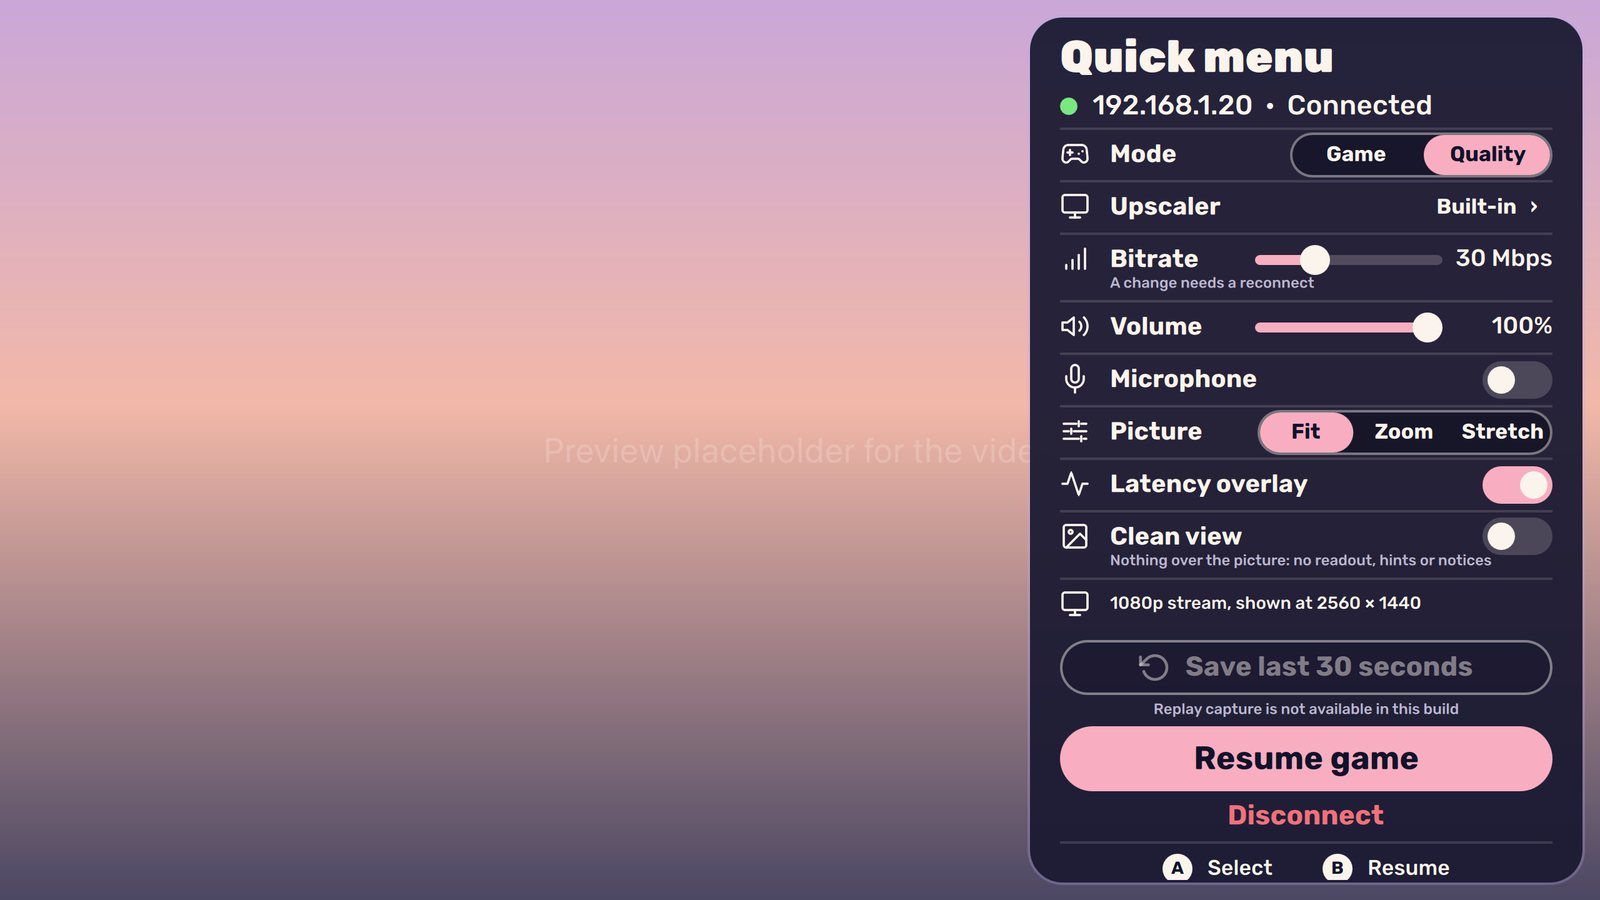
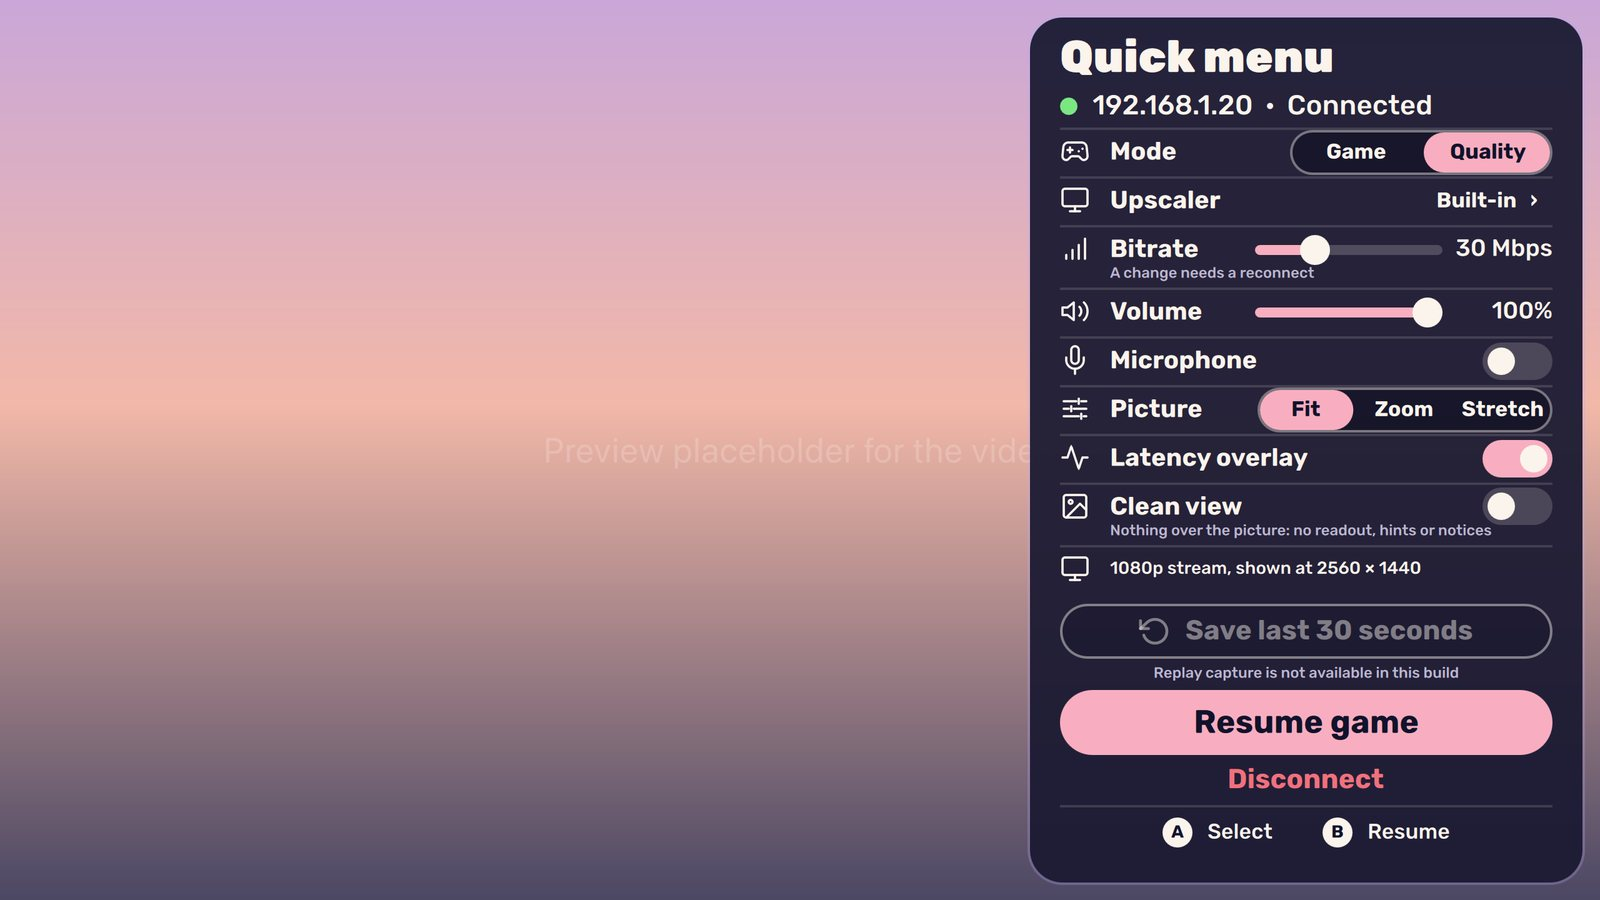
Fit the quick menu at 720p

Changed region(s): [[0.6562, 0.1244, 0.9688, 0.9956]]

diff --git a/gui/src/qml/vice/overlay/QuickMenu.qml b/gui/src/qml/vice/overlay/QuickMenu.qml
@@ -85,12 +85,12 @@ FocusScope {
         property string caption
         default property alias control: rowSlot.data
         width: column.width
-        height: Theme.px(caption ? 54 : 42)
+        height: Theme.px(caption ? 50 : 39)
         Rectangle { width: parent.width; height: Theme.border; color: Theme.alpha(Theme.text, 0.14) }
-        V.Icon { id: rowIcon; y: Theme.px(9); size: Theme.px(24); weight: 1.8 }
-        V.Label { id: rowLabel; x: Theme.px(40); y: Theme.px(9); font.pixelSize: Theme.px(20); font.weight: Theme.weightButton }
-        V.Label { x: Theme.px(40); y: Theme.px(33); visible: parent.caption; text: parent.caption; font.pixelSize: Theme.px(12); color: Theme.textMuted }
-        Row { id: rowSlot; anchors { right: parent.right; top: parent.top; topMargin: Theme.px(4) } height: Theme.px(34); spacing: Theme.unit * 1.5 }
+        V.Icon { id: rowIcon; y: Theme.px(7); size: Theme.px(24); weight: 1.8 }
+        V.Label { id: rowLabel; x: Theme.px(40); y: Theme.px(7); font.pixelSize: Theme.px(20); font.weight: Theme.weightButton }
+        V.Label { x: Theme.px(40); y: Theme.px(31); visible: parent.caption; text: parent.caption; font.pixelSize: Theme.px(12); color: Theme.textMuted }
+        Row { id: rowSlot; anchors { right: parent.right; top: parent.top; topMargin: Theme.px(2) } height: Theme.px(34); spacing: Theme.unit * 1.5 }
     }
 
     Flickable {
